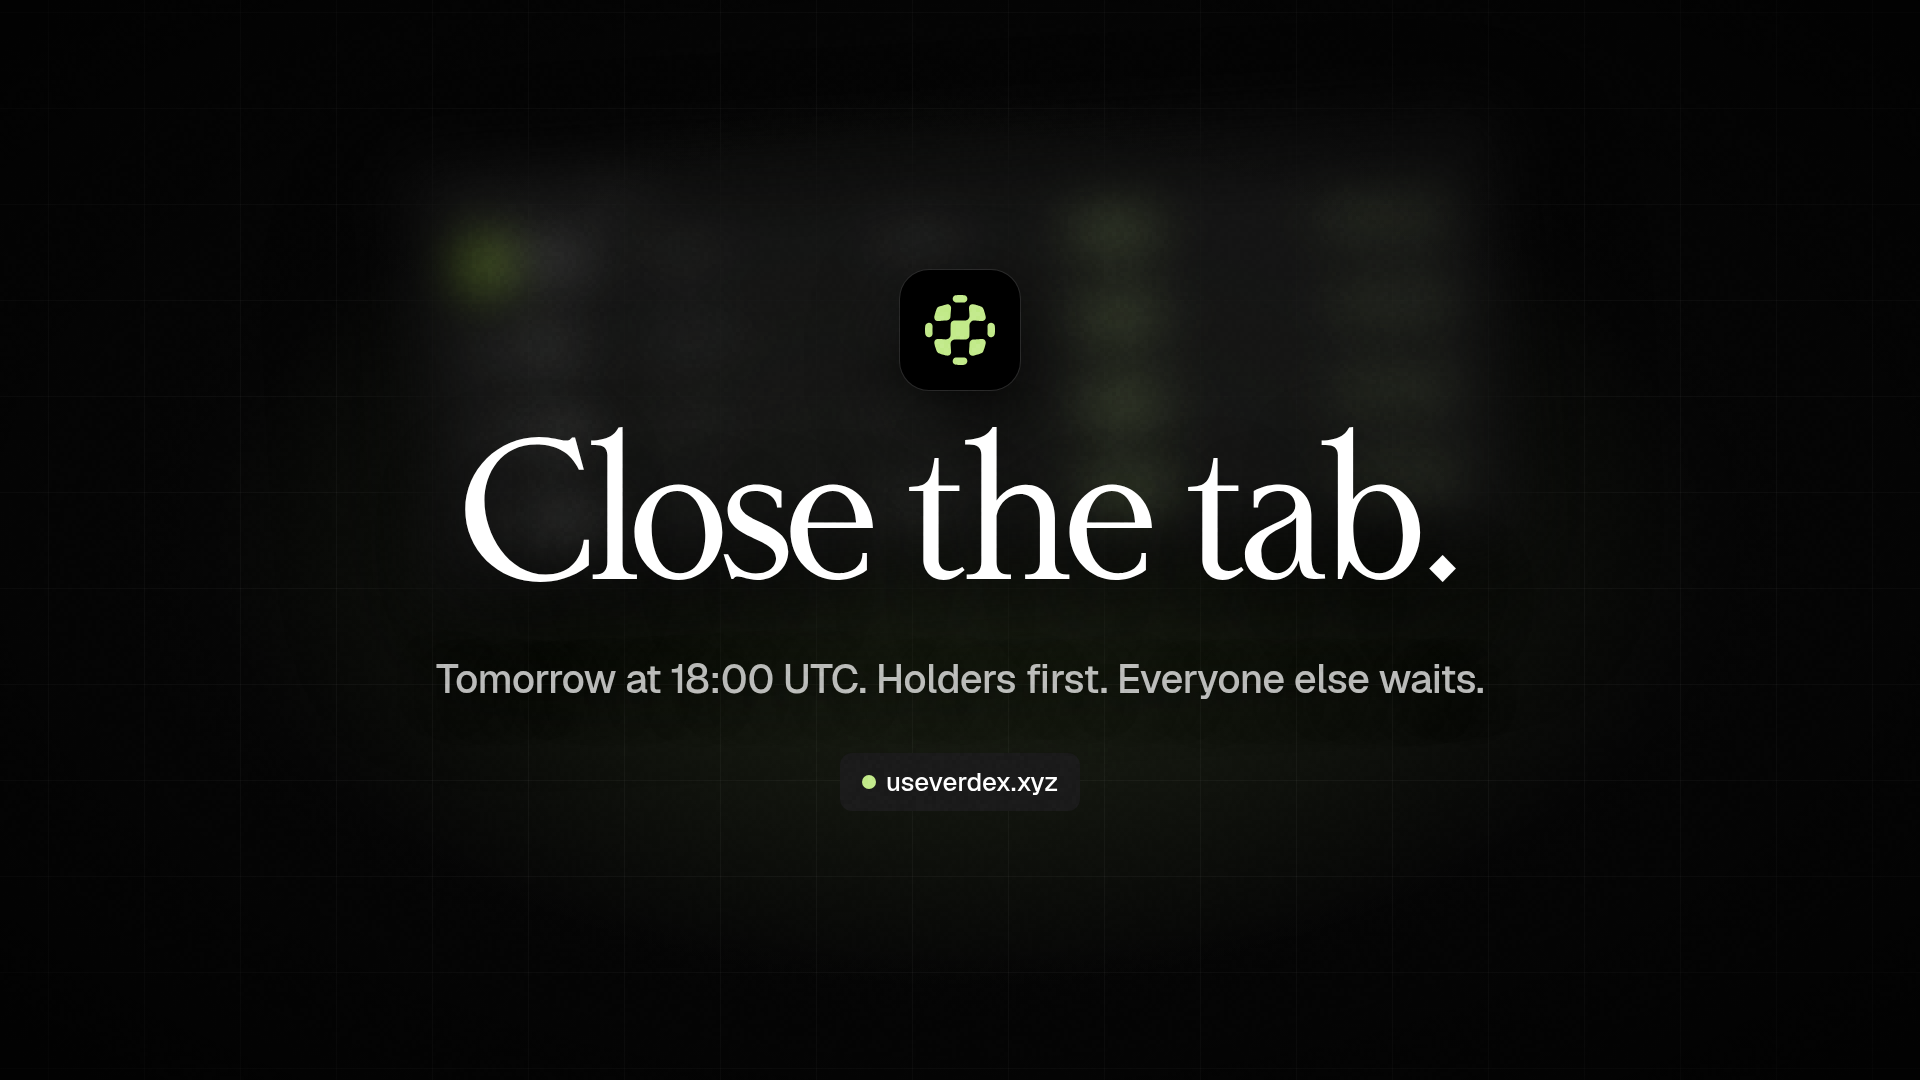
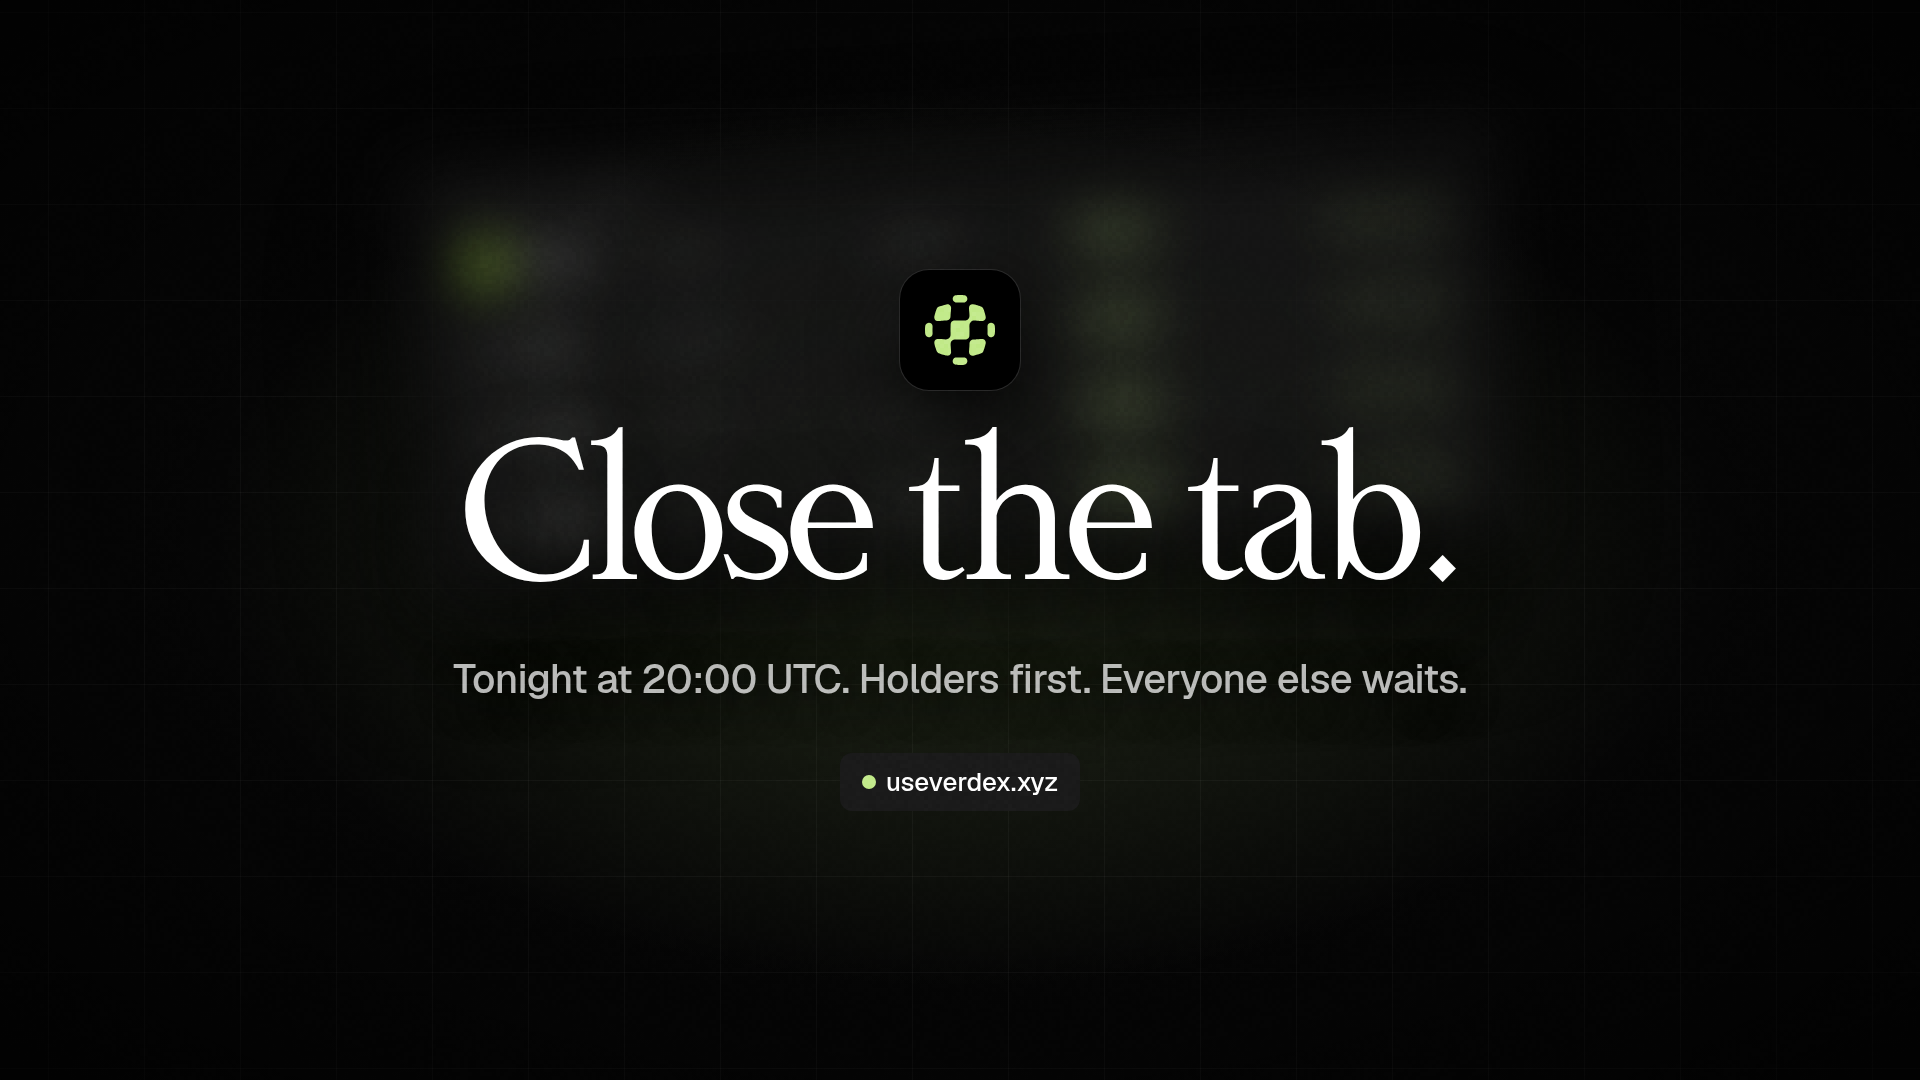
Auto-Invest without you opens tonight at 20:00 UTC

Changed region(s): [[0.2188, 0.6111, 0.7812, 0.6417]]

diff --git a/src/lib/holding.ts b/src/lib/holding.ts
@@ -28,7 +28,7 @@ export type EarlyFeature = { path: string; label: string; opensAt: string }
 export const EARLY_FEATURES: EarlyFeature[] = [
   { path: '/launch', label: 'Launchpad', opensAt: '2026-10-01T20:00:00Z' },
   { path: '/private-markets', label: 'Private Markets', opensAt: '2026-10-02T10:00:00Z' },
-  { path: '/auto-invest/without-you', label: 'Auto-Invest without you', opensAt: '2026-10-03T18:00:00Z' },
+  { path: '/auto-invest/without-you', label: 'Auto-Invest without you', opensAt: '2026-10-02T20:00:00Z' },
 ]
 
 const client = () => createPublicClient({ transport: http(RPC, { retryCount: 3, retryDelay: 1200, timeout: 20_000 }) })

diff --git a/promo/README.md b/promo/README.md
@@ -65,7 +65,7 @@ The feature lives at `/orders` (`src/pages/OrdersPage.tsx` on top of `src/lib/or
 
 `coingecko-listed.html` is the 26-second film for the CoinGecko listing (approved 2 October 2026): the name, the CoinGecko lockup with the approval and request id, what the page shows and where it comes from, the page's numbers counting up, and the end card at `coingecko.com/en/coins/verdex`. Render with `node promo/render.mjs --page promo/coingecko-listed.html --out promo/verdex-coingecko-listed.mp4`. The photo is `coingecko-listed-photo.html`, rendered to `photos/coingecko-listed.png`.
 
-`autopilot.html` is a 34-second film for Auto-Invest without you: the name, the plan composer (NVDA, $100 every week, twelve buys, the exact allowance counting up), four weekly buys landing while the tab is closed, the four things the contract guarantees, and the end card at `useverdex.xyz/auto-invest/without-you`. Render with `node promo/render.mjs --page promo/autopilot.html --out promo/verdex-autopilot.mp4`. The hype still is `photos/hype-autopilot.png` (`teaser.html?bg=yield&line=Close%20the%20tab.&sub=…`).
+`autopilot.html` is a 34-second film for Auto-Invest without you: the name, the plan composer (NVDA, $100 every week, twelve buys, the exact allowance counting up), four weekly buys landing while the tab is closed, the four things the contract guarantees, and the end card at `useverdex.xyz/auto-invest/without-you`. Render with `node promo/render.mjs --page promo/autopilot.html --out promo/verdex-autopilot.mp4`. The hype still is `photos/hype-autopilot.png` (`teaser.html?bg=yield&line=Close%20the%20tab.&sub=Tonight%20at%2020%3A00%20UTC…`).
 
 `pools.html` is a 34-second film for Verdex Pools: the name, the live stats strip, the pool table rising row by row, the composer typing one amount and getting the other, a position earning its first fees, and the end card at `useverdex.xyz/pools`. Render with `node promo/render.mjs --page promo/pools.html --out promo/verdex-pools.mp4`.
 

diff --git a/promo/tweets.md b/promo/tweets.md
@@ -299,7 +299,7 @@ The last box on the day-one roadmap, and the first Verdex contract. Say it plain
 
 ### Hype (image: `photos/hype-autopilot.png`, names no feature)
 
-> Tomorrow, 18:00 UTC.
+> Tonight, 20:00 UTC.
 >
 > Something that keeps working after you close the tab.
 >
